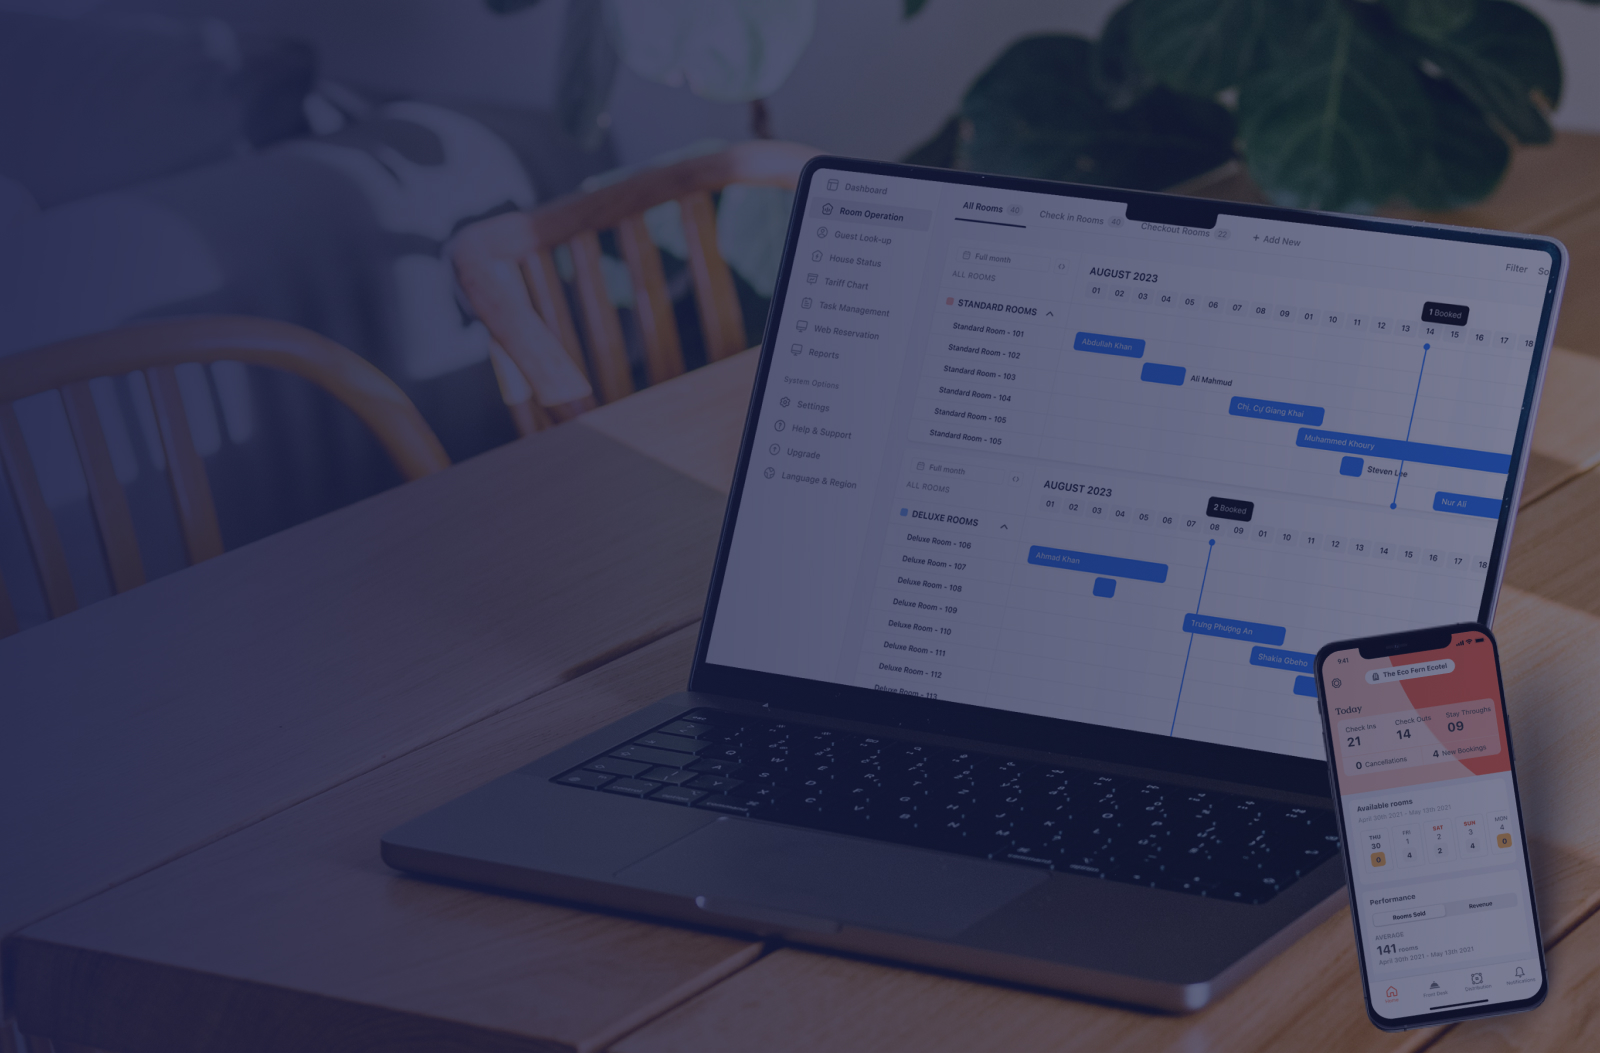
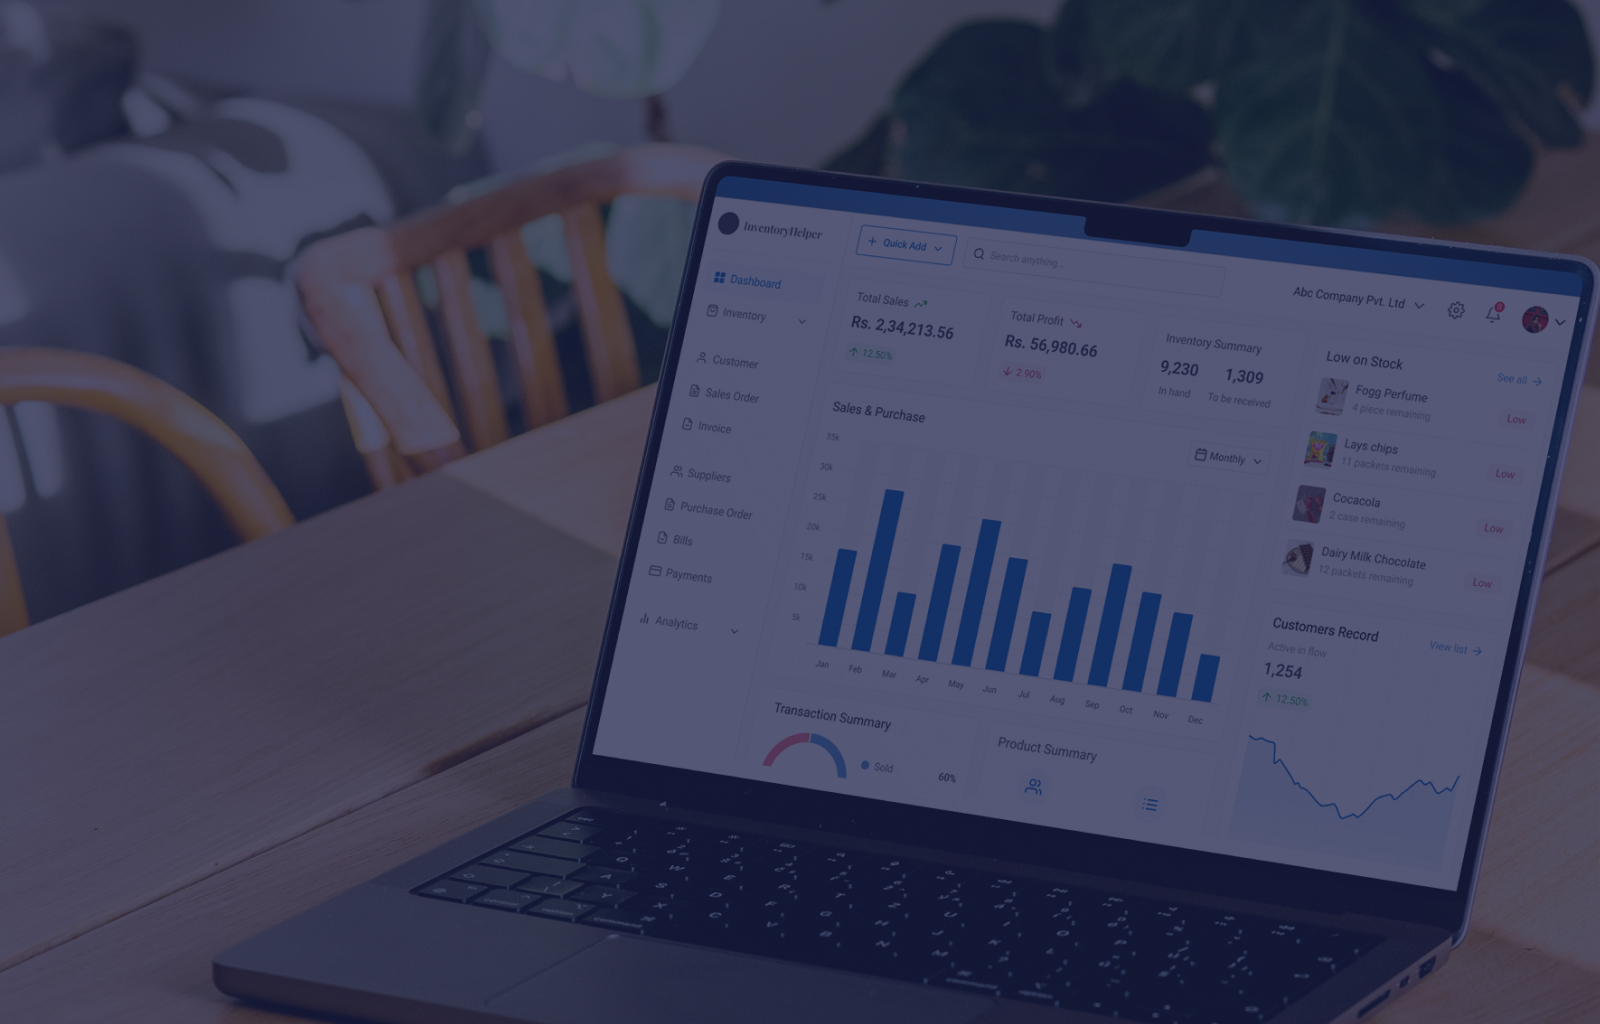
added sales landing

diff --git a/finalsoft-sales/index.html b/finalsoft-sales/index.html
@@ -92,7 +92,7 @@
             <img src="images/pictures/for1.png" class="img-fluid shadow rounded">
           </div>
           <h3 class="mb-2"> Small businesses</h3>
-          <p>Manane your sales orders with fewer clicks. Easily track inventory, finances, and more from  intuitive platform</p>
+          <p>Manane your sales orders, purchases and invoices with fewer clicks. Easily track inventory, finances, and much more from  intuitive platform</p>
           
         </div>
         <div class="feature col">
@@ -100,14 +100,14 @@
             <img src="images/pictures/for2.png" class="img-fluid shadow rounded">
           </div>
           <h3 class="mb-2"> Distribution </h3>
-          <p>Get a full overview of your reservation management dashboard, daily reports, calendar and hotel reports, accessible in the cloud</p>
+          <p>A modern DMS streamlines all distribution workflows and activities, improves supply chain efficiency, eliminates stock outs and overstocking</p>
         </div>
         <div class="feature col">
           <div class="bg-warning mb-3 rounded-3" style="min-height: 140px;">
             <img src="images/pictures/for3.png" class="img-fluid shadow rounded">
           </div>
           <h3 class="mb-2">Warehouses</h3>
-          <p>One platform to manage entire hospitality business, Get a full overview of your guest demographics & full business reports, easy accessible in the cloud.</p>
+          <p>Manage multiple warehouses, transfer stock between them and generate reports to get better insights about warehouse management</p>
         </div>
       </div>
     </div>  <!-- container.// -->
@@ -120,20 +120,20 @@
             <article class="col-lg-5 col-12">
                   <div class="me-lg-5">
                     
-                    <h2 class="text-dark h1 mb-3">A clear view of your business with daily reports and detailed analytics</h2>
+                    <h2 class="text-dark h1 mb-3">A clear view of your inventory with daily reports and detailed analytics</h2>
                     <hr>
                     <p>
-                        Get a complete overview of your hotel's performance with one-click reporting built for ease of use right into the interface.
+                        Get a complete overview of your warehouse and availablity of each item with one-click. Find out the volume of items that are shipped in and out from each of your warehouses. Get more insights into each item's sales and purchase trends.
                     </p>
                     <ul class="list-check mt-4 mb-4">
                       <li class="py-1">
-                        Track your finances with daily analytics
+                        Search and filter items by name, barcode and price
                       </li>
                       <li class="py-1">
-                        Access hotel data with a Mobile Hotel management App
+                        Access all inventory data with a Mobile app
                       </li>
                       <li class="py-1">
-                        Save time with improved operational efficiency
+                        Comprehensive Overview of Inventory Transactions
                       </li>
                     </ul>
                   </div>
@@ -160,20 +160,21 @@
         </aside>
         <article class="col-lg-5 col-12">
             <div class="ms-lg-5">
-                  <h2 class="text-dark h1 mb-3">Integrate with any tool. <br> Connect to popular online booking channels</h2>
+                  <h2 class="text-dark h1 mb-3">Manage sales and purchase orders and send delivery updates</h2>
                   <hr>
                   <p>
-                      Promote and sell your rooms and keep your availability and rates up-to-date across all channels. Reach millions of new guests and boost your sales from a single screen. Integrate with popular booking platfirms like Booking.com
+                    Keep control of your sales with easy to track order control. 
+                    Create partial shipments and partial invoices to reflect the physical processes of your sales.
                   </p>
                   <ul class="list-check mt-4 mb-4">
                       <li class="py-1">
-                        Eliminate overbookings and enhance guest experience
+                        Save contact info of your suppliers and customers
                       </li>
                       <li class="py-1">
-                        Expand marketing reach and attract more guests
+                        A complete order management solution
                       </li>
                       <li class="py-1">
-                        Sell more rooms at best rates to drive occupancy and revenue
+                        Manage your offline and online orders
                       </li>
                   </ul>
             </div>
@@ -189,17 +190,17 @@
       <div class="row justify-content-between align-items-center">
           <article class="col-lg-5 col-12">
                 <div class="me-lg-5">
-                  <h2 class="text-dark h1 mb-3">The software can be used both online and offline <br> on any platform.</h2>
+                  <h2 class="text-dark h1 mb-3">Integration with  <br> payment, accounting, <br> CRM and POS</h2>
                   <hr>
                   <p>
-                      Access all the tools you need at your fingertips, from online check-in and real-time reports to billing and payments.
+                    Bring your inventory experience to a whole new level with robust integrations. Easily sync your inventory data across all systems to create a single source of truth.
                   </p>
                   <ul class="list-check mt-4 mb-4">
                       <li class="py-1">
-                        One cloud-based system, one login, always in sync
+                        Receive orders from POS systems
                       </li>
                       <li class="py-1">
-                        Simplify operations and enhance guest experiences
+                        Integrate with payment gateways
                       </li>
                       <li class="py-1">
                         Access from desktop, smartphone and tablets
@@ -227,7 +228,7 @@
             <article class="feature-bg-img-content position-relative z-5">
                 <header class="section-heading">
                     <h2 class="text-dark h1 mb-4">
-                      Everything you need to <br> control your property. <br> All in one place 
+                      Everything you need to <br> manage your business. <br> All in one place 
                     </h2>
                     <p class="lead">
                     FREE beta version with all basic functionalities</p>
@@ -237,7 +238,7 @@
             </article>
           </div>
           <div class="col-lg-7">
-            <img src="images/pictures/buildings.png" class="img-fluid" alt="">
+            <img src="images/pictures/circles.png" class="img-fluid" alt="">
           </div>
     </div>
   </div>
@@ -246,14 +247,12 @@
 
 
 
-
 <section class="section-all-features padding-y-lg bg-light" id="features">
   <div class="container">
       <header class="section-heading text-center mb-5">
           <h2 class="h1">Key Features</h2>
           <p>
-             Experience powerful technology built to work seamlessly together. 
-          </p>
+             Experience powerful technology built to automate entire business process</p>
       </header>
       <div class="row gy-4">
           <div class="col-lg-4">
@@ -262,9 +261,9 @@
                       <i class="feather text-primary icon-package"></i>
                   </div>
                   <div class="">
-                      <h3 class="h5">Inventory management</h3>
+                      <h3 class="h5">Inventory control</h3>
                       <p>
-                          Maximize your revenue and occupancy by selling room inventory in multiple configurations.
+                          Check stock level, get notifications about low stock, and generate reports for specific warehouses. Simple Data Import &amp; Export
                       </p>
                   </div>
               </article>
@@ -272,25 +271,23 @@
           <div class="col-lg-4">
             <article class="card h-100 p-4 bg-white rounded-custom">
               <div class="iconbox rounded text-primary mb-4" style="background-color:#bef7ff;">
-                  <i class="feather icon-bar-chart" style="color:#15727e;"></i>
+                  <i class="feather icon-truck" style="color:#15727e;"></i>
               </div>
               <div class="">
-                  <h3 class="h5">Reporting & accounting</h3>
+                  <h3 class="h5">Manage orders</h3>
                   <p>
-                      Track business performance with essential reservations and operations reports.
-                  </p>
+                      Manage your offline and online orders with our order management system. Create purchase orders, backorders and drop shipments</p>
               </div>
           </article>
           </div>
           <div class="col-lg-4">
             <article class="card h-100 p-4 bg-white rounded-custom">
               <div class="iconbox rounded text-primary mb-4" style="background-color:#d8ffbe;">
-                  <i class="feather icon-globe" style="color:#6c9b4d;"></i>
+                  <i class="feather icon-layout" style="color:#6c9b4d;"></i>
               </div>
               <div class="">
-                  <h3 class="h5">Website Builder</h3>
-                  <p>
-                      Need a professional website? Choose from over 50 customisable templates and create your own hotel website
+                  <h3 class="h5">Cashier &amp; POS app</h3>
+                  <p>POS (Point Of Sales) app is made for&nbsp; cashiers specifically designed for retail businesses, food stores and clothing stores
                   </p>
               </div>
           </article>
@@ -298,12 +295,12 @@
           <div class="col-lg-4">
             <article class="card h-100 p-4 bg-white rounded-custom">
               <div class="iconbox rounded text-primary mb-4" style="background-color:#ffdfbe;">
-                  <i class="feather icon-map" style="color:#ce7518;"></i>
+                  <i class="feather icon-file-plus" style="color:#ce7518;"></i>
               </div>
               <div class="">
-                  <h3 class="h5">Multi-property booking</h3>
+                  <h3 class="h5">Supply management</h3>
                   <p>
-                      Show your availability across multiple properties from a single screen. Showcase all your properties on a single booking engine page
+                      Bring everything together by saving price lists, currencies and address details for the suppliers of every product.
                   </p>
               </div>
           </article>
@@ -311,13 +308,11 @@
           <div class="col-lg-4">
             <article class="card h-100 p-4 bg-white rounded-custom">
               <div class="iconbox rounded text-primary mb-4" style="background-color:#ffc9f5;">
-                  <i class="feather icon-edit" style="color:#971381;"></i>
+                  <i class="feather icon-bar-chart" style="color:#971381;"></i>
               </div>
               <div class="">
-                  <h3 class="h5">Easy Price Changes</h3>
-                  <p>
-                      Experience effective rate management & reporting. Easily manage rates with a calendar view. Monitor your rates and pricing
-                  </p>
+                  <h3 class="h5">Detailed analytics</h3>
+                  <p>Discover business Insights from&nbsp;<span style="font-family: var(--bs-font-sans-serif); font-size: 1rem;">inventory data Analytics.&nbsp;</span>View daily and monthly reports, KPI progess,&nbsp;<span style="font-family: var(--bs-font-sans-serif); font-size: 1rem;">as well as the total earnings.</span></p>
               </div>
           </article>
           </div>
@@ -327,23 +322,19 @@
                   <i class="feather text-primary icon-credit-card"></i>
               </div>
               <div class="">
-                  <h3 class="h5">Finance & Payments</h3>
-                  <p>
-                      Our payment infrastructure also supports multiple currencies and makes it fast and easy to take payments from guests all around the world.
-                  </p>
+                  <h3 class="h5">Finance &amp; Payments</h3>
+                  <p>Sales representatives are able to see debts of each customer&nbsp;<span style="font-family: var(--bs-font-sans-serif); font-size: 1rem;">or general list of debtors. See any financial data in multiple currency</span></p>
               </div>
             </article>
           </div>
           <div class="col-lg-4">
             <article class="card h-100 p-4 bg-white rounded-custom">
               <div class="iconbox rounded text-primary mb-4" style="background-color:#cceeca;">
-                  <i class="feather icon-calendar" style="color:#299323;"></i>
+                  <i class="feather icon-hash" style="color:#299323;"></i>
               </div>
               <div class="">
-                  <h3 class="h5">Booking calendar</h3>
-                  <p>
-                      A booking calendar used to manage and keep track of room reservations. It gives you a full overview of bookings for each room.
-                  </p>
+                  <h3 class="h5">Serial number &amp; barcode</h3>
+                  <p>Find your product by its barcode or unique identification number, it gives you visibility of where your products have been.</p>
               </div>
             </article>
           </div>
@@ -355,7 +346,7 @@
               <div class="">
                   <h3 class="h5">Task creation</h3>
                   <p>
-                      Simplify your hotel staff task management. Assign, comment, and track tasks directly from app. Ensure completion of each task.
+                      Simplify your sales team task management. Assign, comment, and track tasks directly from app. Ensure completion of each task.
                   </p>
               </div>
             </article>
@@ -366,10 +357,9 @@
                   <i class="feather icon-users" style="color: #15727e;"></i>
               </div>
               <div class="">
-                  <h3 class="h5">Back and Front-office</h3>
+                  <h3 class="h5">Customer history</h3>
                   <p>
-                     Software provides integrated back office and front office management system to solve all operational challenges
-                  </p>
+                     The app creates individual profiles for each of your customers.&nbsp;Collect everything about the client in a card: statistics, documents, tasks, meetings</p>
               </div>
             </article>
           </div>
@@ -478,9 +468,9 @@
           <div class="col-lg-5 col-12">
               <div class="faq-wrapper">
                   <div class="faq-item mb-4">
-                      <h5>What is a hotel management system (HMS)? </h5>
+                      <h5> What is inventory control software? </h5>
                       <p>
-                        A hotel management system (HMS) is software used by hotels to control, automate, optimize, and streamline operations across departments. The core functions of an HMS include managing property-wide workflows like reservation systems, room inventory and occupancy, pricing and reporting.
+                        Inventory control software, also called inventory management software, is a perpetual stock management system designed to streamline operational processes, increase inventory accuracy, and reduce the costs associated with carrying physical stock.
                       </p>
                   </div>
                   <div class="faq-item mb-4">
